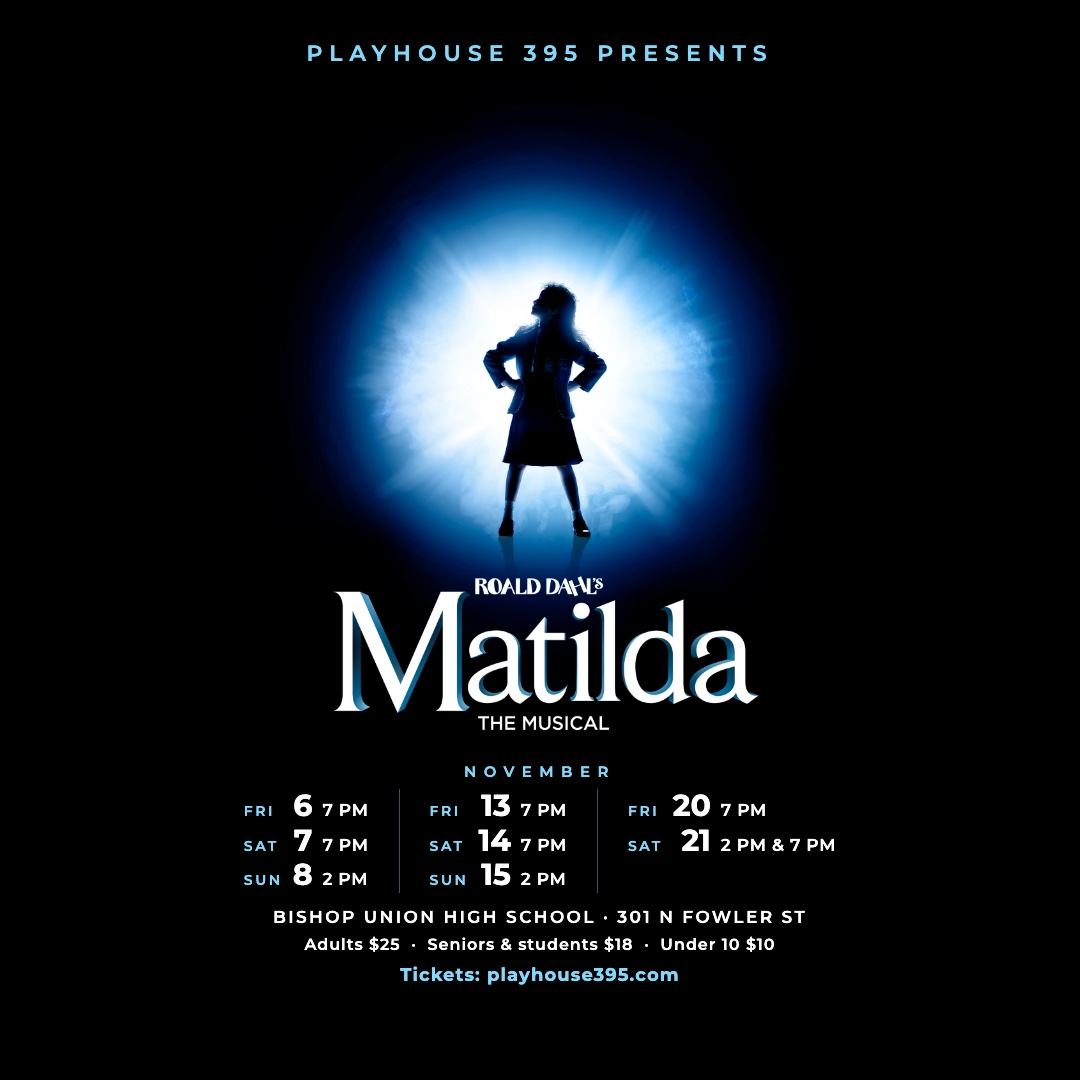
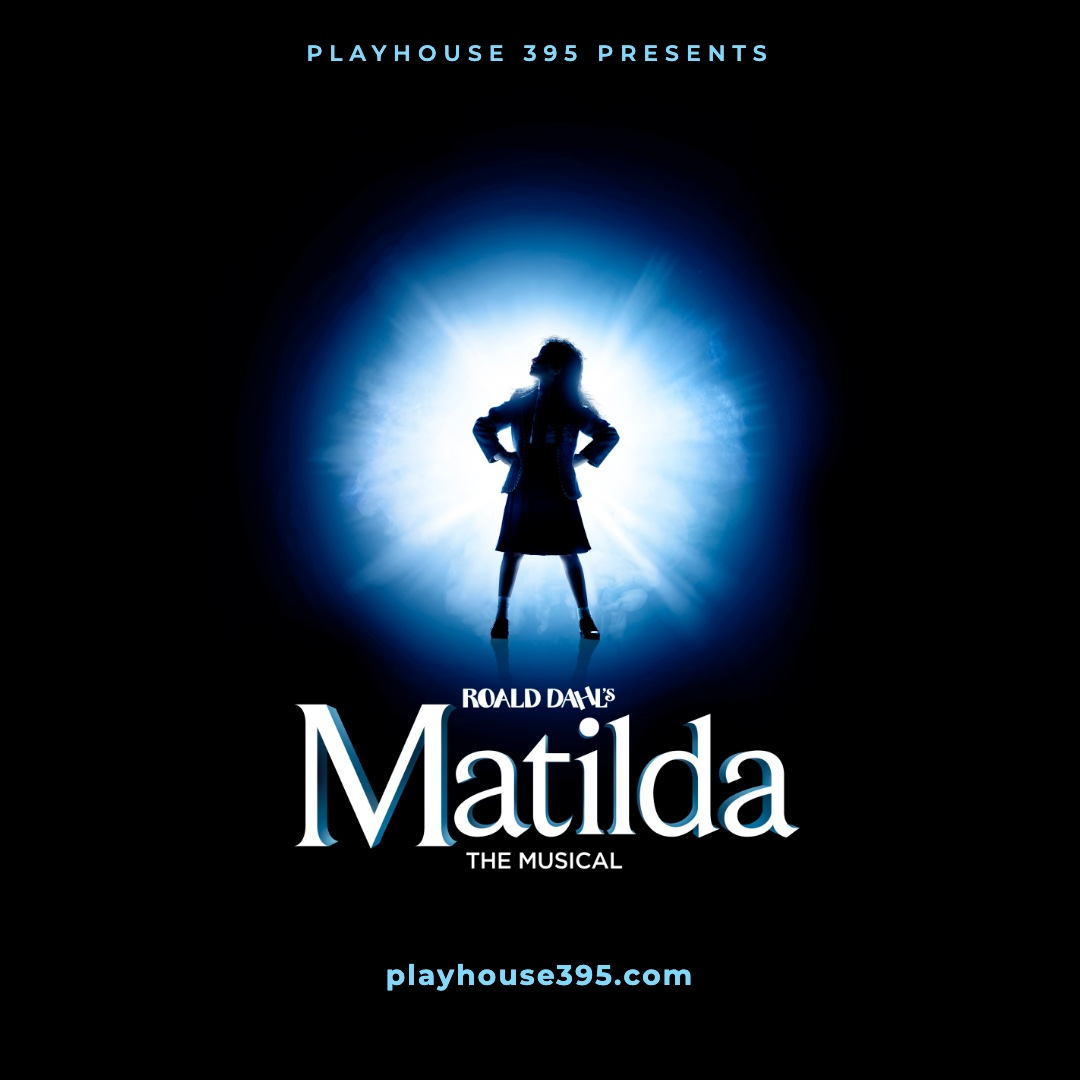
playhouse-395: the square Matilda flyer carries the web address, not the dates

Changed region(s): [[0.2139, 0.1222, 0.7639, 0.9167]]

diff --git a/src/web/public/work/playhouse-395/matilda-publicity/index.html b/src/web/public/work/playhouse-395/matilda-publicity/index.html
@@ -218,11 +218,11 @@
       <p>Five posts, all from the official artwork in our license and ready to post. Download the one that
       fits where it&rsquo;s going and post it as it is.</p>
     </div>
-    <p class="sub"><b>The flyer, square.</b> Everything on the printed flyer: every performance, the venue and the prices.</p>
+    <p class="sub"><b>The flyer, square.</b> The flyer&rsquo;s artwork with Matilda&rsquo;s pose, and playhouse395.com underneath.</p>
     <div class="pair posts">
       <figure>
-        <a href="img/Matilda_Flyer_1080x1080.jpg"><img src="img/Matilda_Flyer_1080x1080.jpg" alt="Square Matilda flyer: Matilda&rsquo;s silhouette in the light above the white title, with all eight performances, Bishop Union High School, prices and playhouse395.com" width="1080" height="1080"></a>
-        <figcaption><b>Square, 1080 &times; 1080.</b> A feed post that carries the dates itself.
+        <a href="img/Matilda_Flyer_1080x1080.jpg"><img src="img/Matilda_Flyer_1080x1080.jpg" alt="Square Matilda flyer: Playhouse 395 presents, Matilda&rsquo;s silhouette in the light above the white title, and playhouse395.com" width="1080" height="1080"></a>
+        <figcaption><b>Square, 1080 &times; 1080.</b> A feed post on Instagram or Facebook.
         <a href="img/Matilda_Flyer_1080x1080.jpg" download>Download</a></figcaption>
       </figure>
     </div>
@@ -253,7 +253,7 @@
       </figure>
     </div>
     <ul class="notes">
-      <li><b>The title posts show only the title.</b> Put the dates, Bishop Union High School and
+      <li><b>None of the posts carry the dates.</b> Put the dates, Bishop Union High School and
         playhouse395.com/matilda in the post&rsquo;s caption.</li>
       <li><b>Post them as they are.</b> Our license doesn&rsquo;t allow cropping, recolouring or resizing
         the artwork, so when Instagram offers to crop, keep the whole image. The license also allows
